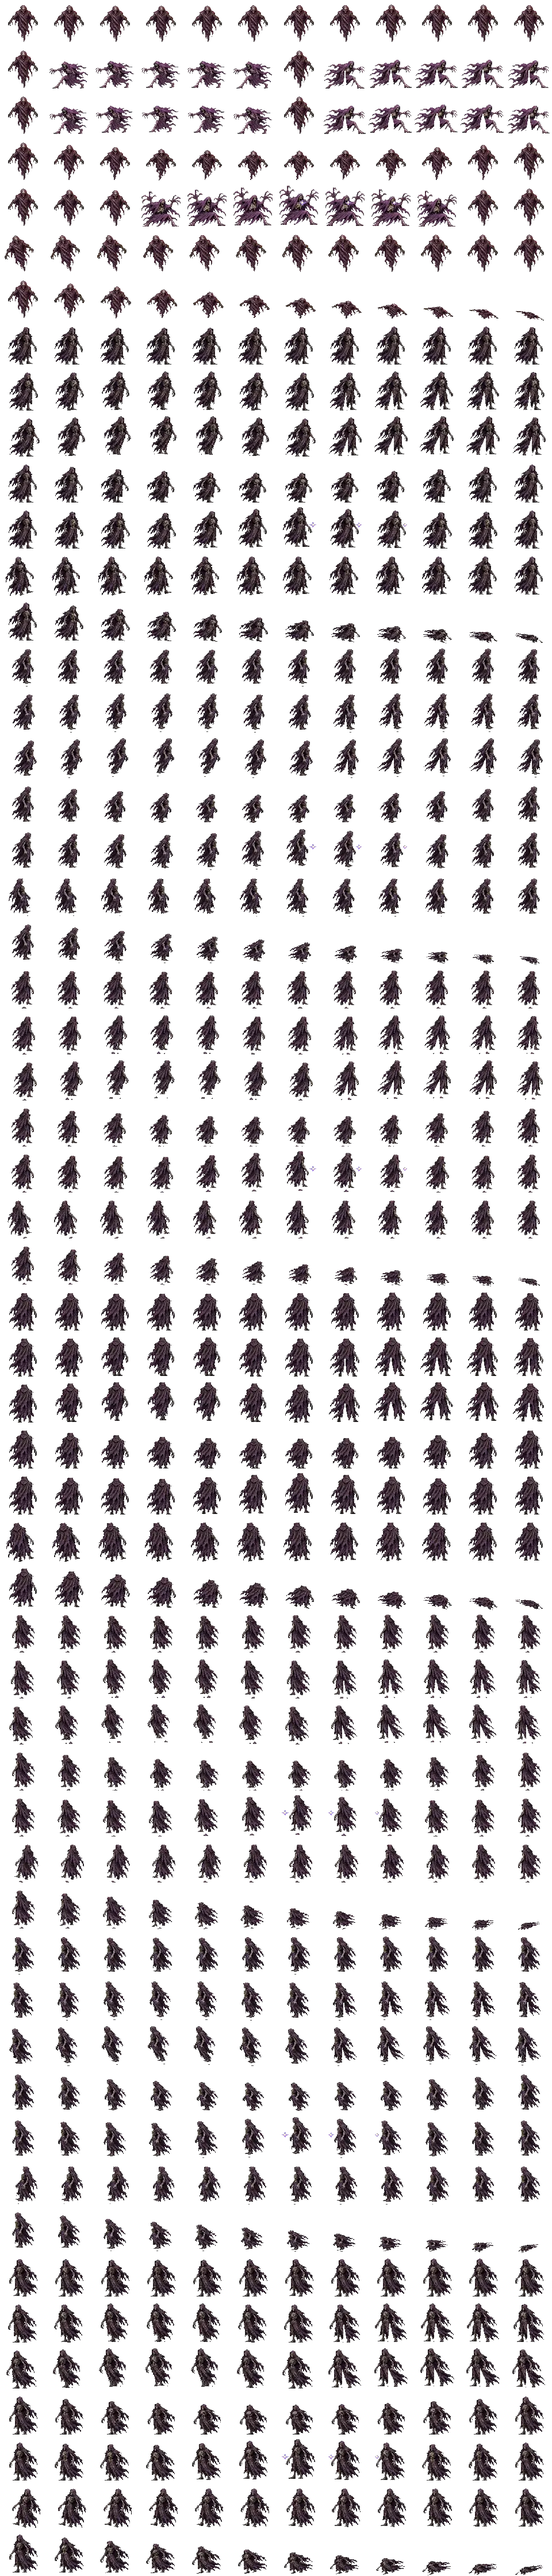
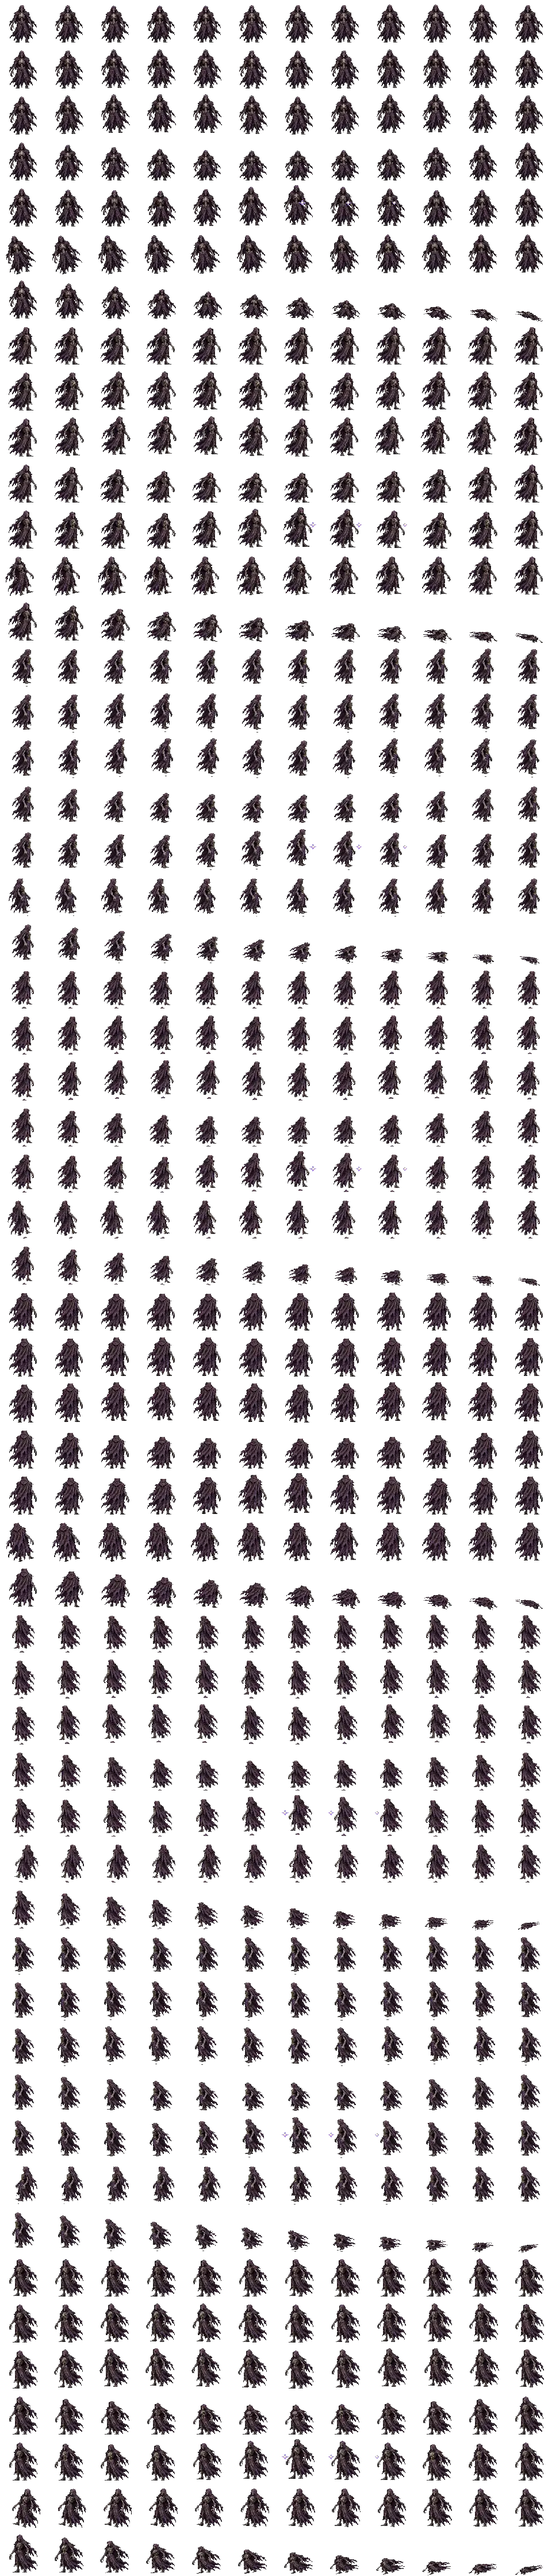
Keep enemy designs consistent across animation frames and add pixel blood impacts

diff --git a/index.html b/index.html
@@ -58,6 +58,8 @@ const mapSize=37;
 const keys=new Set();
 let n=0,grid,heights,foes,shots,items,p,weapon,heat,flash,hurt,exitPoint,lamps,ceiling,pickupNotice,pickupTime,boss,keyHeld,keyDropped;
 const owned=new Set([0]);
+const blood=[];
+const bloodColors=['#6a101d','#a0192b','#db2837','#ff514a'];
 let state='menu',time=0,elapsed=0,roomDistance;
 let audio, music, fx, step=0, nextBeat=0, muted=false;
 function level(index){
@@ -94,7 +96,7 @@ function level(index){
  foes.push(boss);keyHeld=keyDropped=false;
  const [sx,sy]=rooms[chapter.route[0]],[nx,ny]=rooms[chapter.route[1]];
  p={x:sx+.5,y:sy+.5,a:Math.atan2(ny-sy,nx-sx),z:heights[sy][sx],hp:100,ammo:20};
- shots=[];heat=flash=hurt=0;
+ shots=[];blood.length=0;heat=flash=hurt=0;
  const [ex,ey]=rooms[chapter.route.at(-1)];
  exitPoint=[ex+2.5,ey+.5];
  items=[[...exitPoint,'exit']];
@@ -175,7 +177,7 @@ function prepareEnemies(){
    button.textContent='Recarrega per tornar-ho a provar';
    button.disabled=false;button.onclick=()=>location.reload();
   };
-  img.src='./assets/'+file+'?v=frames1';
+  img.src='./assets/'+file+(img===weaponSheet?'?v=frames1':'?v=consistent2');
  }
 }
 function initAudio(){
@@ -214,6 +216,30 @@ function score(){
   nextBeat+=60/[128,144,139,150,156][n]/4;step++;
  }
 }
+function sprayBlood(enemy,amount){
+ const count=Math.min(14,6+Math.floor(amount/12));
+ const direction=Math.atan2(enemy.y-p.y,enemy.x-p.x);
+ if(blood.length+count>96)blood.splice(0,blood.length+count-96);
+ for(let i=0;i<count;i++){
+  const a=direction+(Math.random()-.5)*2.5,speed=.28+Math.random()*1.45;
+  blood.push({
+   x:enemy.x-Math.cos(direction)*.16+(Math.random()-.5)*.17,
+   y:enemy.y-Math.sin(direction)*.16+(Math.random()-.5)*.17,
+   altitude:floor(enemy.x,enemy.y)+hopHeight(enemy)+(enemy.id===9?.80:.49)+Math.random()*.24,
+   vx:Math.cos(a)*speed,vy:Math.sin(a)*speed,vz:.65+Math.random()*1.4,
+   ttl:.31+Math.random()*.37,color:bloodColors[i%bloodColors.length],
+   size:.021+Math.random()*.035
+  });
+ }
+}
+function tickBlood(dt){
+ for(let i=blood.length-1;i>=0;i--){
+  const drop=blood[i];
+  drop.ttl-=dt;
+  drop.x+=drop.vx*dt;drop.y+=drop.vy*dt;drop.altitude+=drop.vz*dt;drop.vz-=6*dt;
+  if(drop.ttl<=0||wall(drop.x,drop.y)||drop.altitude<=floor(drop.x,drop.y))blood.splice(i,1);
+ }
+}
 function fire(){
  if(heat>0)return;
  let gun=guns[weapon];
@@ -227,13 +253,15 @@ function fire(){
  targets.slice(0,gun.targets).forEach((e,i)=>{
   const distance=Math.hypot(e.x-p.x,e.y-p.y);
   const drop=weapon===1?Math.max(.30,1-distance*.13):1;
-  e.hp-=gun.damage*drop/(1+i*.42)*(e.id===8&&!e.wind?.55:1);
+  const impact=gun.damage*drop/(1+i*.42)*(e.id===8&&!e.wind?.55:1);
+  e.hp-=impact;sprayBlood(e,impact);
   e.hit=hitDuration;
   if(weapon===4){
    for(const other of foes){
     const dx=other.x-e.x,dy=other.y-e.y,d=Math.hypot(dx,dy);
     if(other===e||other.hp<=0||d>1.5||!ray(e.x,e.y,dx/d,dy/d,floor(e.x,e.y)+.52,floor(other.x,other.y)+.52,d))continue;
-    other.hp-=44*(1-d/1.6);other.hit=hitDuration;
+    const splash=44*(1-d/1.6);
+    other.hp-=splash;other.hit=hitDuration;sprayBlood(other,splash);
    }
   }
  });
@@ -256,6 +284,7 @@ function updateNavigation(){
  roomDistance={start,values};
 }
 function update(dt){
+ tickBlood(dt);
  const turn=+keys.has('arrowright')-keys.has('arrowleft');
  p.a+=turn*dt*2.3;
  const forward=+keys.has('w')+keys.has('arrowup')-keys.has('s')-keys.has('arrowdown')-stickY;
@@ -582,11 +611,12 @@ function draw(){
   const frame=Math.max(0,Math.min(11,Math.floor(elapsedFrame)));
   const bearing=Math.atan2(p.y-e.y,p.x-e.x);
   const view=facingView(e.facing,bearing);
-  if(e.view===undefined||Math.abs(angle(bearing-e.facing-e.view*Math.PI/4))>Math.PI*.15)e.view=view;
+  if(e.view===undefined||Math.abs(angle(bearing-e.facing-e.view*Math.PI/4))>Math.PI*.17)e.view=view;
   scene.push({x:e.x,y:e.y,art:enemySheets[e.id],frameX:frame*80,frameY:(e.view*enemyPoses.length+enemyPoses.indexOf(pose))*80,frameSize:80,size:e.id===9?1.48:1,
    offset:e.hp>0?hopHeight(e):0,hit:e.hit>0,enemy:e.id});
 
  }
+ for(const drop of blood)scene.push({x:drop.x,y:drop.y,altitude:drop.altitude,size:drop.size,color:drop.color,blood:true});
  for(const s of shots)scene.push({...s,size:.14,offset:.50});
  for(const [x,y,kind,id] of items){
   if(kind==='key'){scene.push({x,y,art:keyArt,size:.52,offset:.07+Math.sin(time*4)*.07,fixture:true});continue}
@@ -600,7 +630,7 @@ function draw(){
  scene.sort((a,b)=>b.z-a.z);
  for(const o of scene){
   if(o.z<.14)continue;
-  const h=Math.floor(focal/o.z*o.size),w=o.enemy===undefined?h:Math.round(h*1.20);
+  const h=Math.max(o.blood?2:0,Math.floor(focal/o.z*o.size)),w=o.enemy===undefined?h:Math.round(h*1.20);
   const left=Math.floor(W/2+W/2*o.l/(o.z*plane)-w/2);
   const altitude=o.altitude??floor(o.x,o.y)+(o.offset||0);
   const top=Math.floor(horizon+(eye-altitude)*focal/o.z-h);
